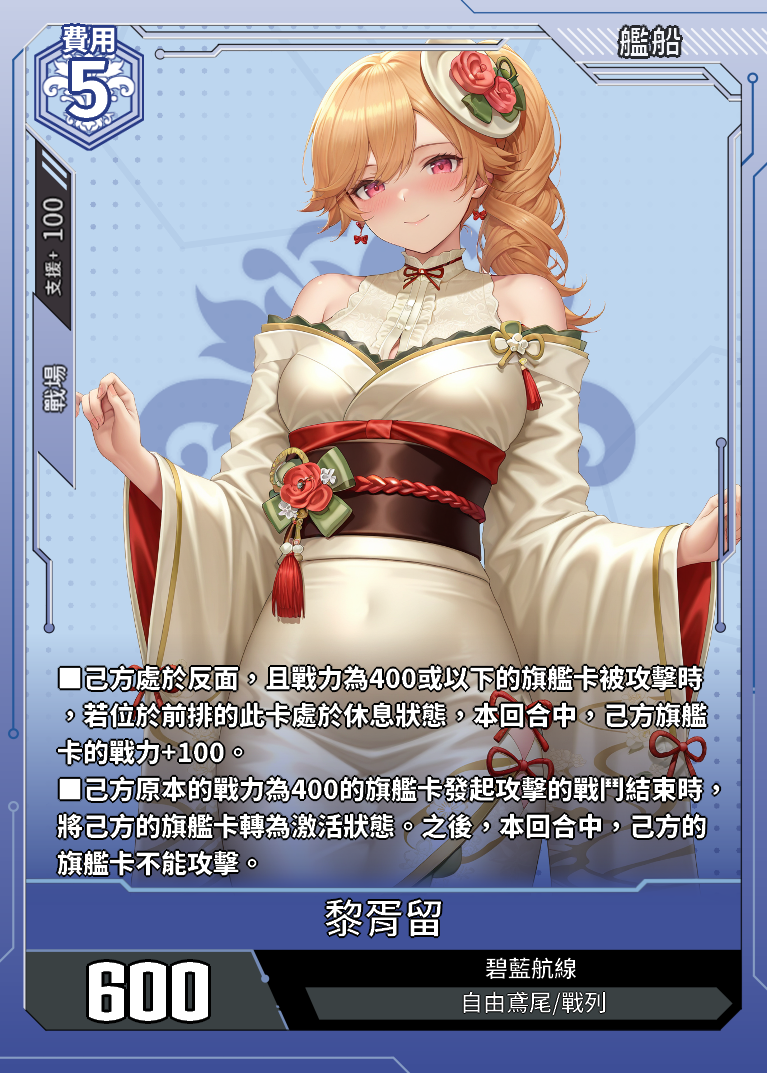
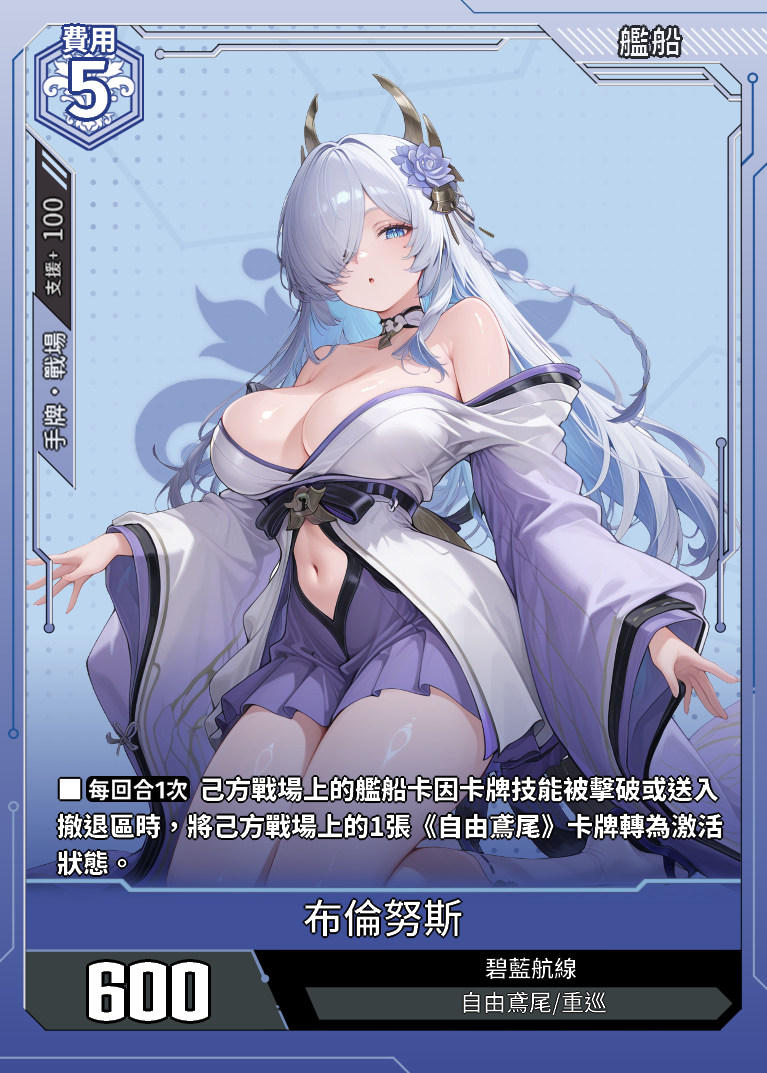
修改預覽測試

diff --git a/data.js b/data.js
@@ -23994,7 +23994,7 @@ const cards = [
             "支援範圍": "手牌·戰場",
             "支援值": "100"
         },
-        "card_effect": "■【登場時】此卡從手牌登場時，根據己方戰場上的名稱中帶有「μ兵裝」的艦船卡，以及《重櫻》〈航母〉/〈輕航〉艦船卡的數量，適用以下全部。・當數量為3或以上時，選擇對方戰場上的1張費用為3或以下的艦船卡，本回合中，該卡不能支援。・當數量為4或以上時，對方捨棄1張手牌。。・當數量為5或以上時，本回合中，此卡獲得【速攻】",
+        "card_effect": "■【登場時】此卡從手牌登場時，根據己方戰場上的名稱中帶有「μ兵裝」的艦船卡，以及《重櫻》〈航母〉/〈輕航〉艦船卡的數量，適用以下全部。・當數量為3或以上時，選擇對方戰場上的1張費用為3或以下的艦船卡，本回合中，該卡不能支援。・當數量為5或以上時，本回合中，此卡獲得【速攻】",
         "acquisition_method": "CE02-早期測試"
     },
 	{
@@ -24185,6 +24185,44 @@ const cards = [
             "支援值": "100"
         },
         "card_effect": "■【主階段啟動】捨棄2張《重櫻》事件卡並將己方正面表示的4張魔方卡轉為休息狀態：將手牌中的此卡登場。之後，當己方的旗艦卡為《重櫻》〈戰列〉/〈航母〉卡牌時，抽2張卡。（此技能在手牌中發動）■【遠程】",
+        "acquisition_method": "CE02-早期測試"
+    },
+	{
+        "card_id": 7521210,
+        "card_name": "吾妻",
+        "card_code": "CE02-121",
+        "attributes": {
+            "顏　色": "紅",
+            "種　類": "艦船卡",
+            "費　用": "3",
+            "戰　力": "500",
+            "陣　營": "重櫻",
+            "艦船類型": "超巡",
+            "罕　貴": "-",
+            "勢　力": "赤色中軸",
+            "支援範圍": "戰場",
+            "支援值": "100"
+        },
+        "card_effect": "■【每回合1次】 對方因費用為3或以上的艦船卡技能將做為旗艦耐久的卡牌或卡組中的卡牌加入手牌時，對方可以捨棄1張手牌。若對方未選擇捨棄手牌時，己方抽1張卡。",
+        "acquisition_method": "CE02-早期測試"
+    },
+	{
+        "card_id": 7521220,
+        "card_name": "瑞鳳",
+        "card_code": "CE02-122",
+        "attributes": {
+            "顏　色": "紅",
+            "種　類": "艦船卡",
+            "費　用": "1",
+            "戰　力": "100",
+            "陣　營": "重櫻",
+            "艦船類型": "輕航",
+            "罕　貴": "-",
+            "勢　力": "赤色中軸",
+            "支援範圍": "手牌",
+            "支援值": "100"
+        },
+        "card_effect": "■【登場時】抽1張卡。■【主階段啟動】【每回合1次】可以將此卡轉為休息狀態：查看對方卡組最上方的1張卡，而後將其置於卡組最上方或最下方。",
         "acquisition_method": "CE02-早期測試"
     },
 	{
@@ -24436,7 +24474,7 @@ const cards = [
     },
 	{
         "card_id": 7522140,
-        "card_name": "黎胥留",
+        "card_name": "布倫努斯",
         "card_code": "CE02-214",
         "attributes": {
             "顏　色": "藍",
@@ -24444,13 +24482,13 @@ const cards = [
             "費　用": "5",
             "戰　力": "600",
             "陣　營": "自由鳶尾",
-            "艦船類型": "戰列",
+            "艦船類型": "重巡",
             "罕　貴": "-",
             "勢　力": "碧藍航線",
-            "支援範圍": "戰場",
+            "支援範圍": "手牌·戰場",
             "支援值": "100"
         },
-        "card_effect": "■己方處於反面，且戰力為400或以下的旗艦卡被攻擊時，若位於前排的此卡處於休息狀態，本回合中，己方旗艦卡的戰力+100。■己方原本的戰力為400的旗艦卡發起攻擊的戰鬥結束時，將己方的旗艦卡轉為激活狀態。之後，本回合中，己方的旗艦卡不能攻擊。",
+        "card_effect": "■【每回合1次】己方戰場上的艦船卡因卡牌技能被擊破或送入撤退區時，將己方戰場上的1張《自由鳶尾》卡牌轉為激活狀態。",
         "acquisition_method": "CE02-早期測試"
     },
 	{
